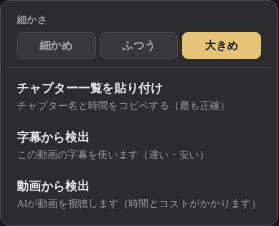
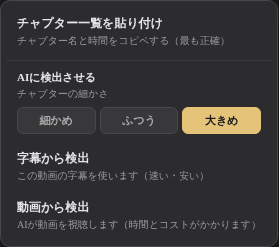
ブックマークのコメントを全文読めるようにする (v52.723)
コメントは一覧でも編集欄でも1行に押し込まれていて、全文を読む手段が無かった。
AI要約から作ったチャプターは説明が長いので、ほぼ必ず途中で切れていた。

■ 一覧の行
white-space:nowrap + 省略記号（1行固定）をやめ、既定2行のクランプにした。
押すと全文が開き、もう一度押すと畳む。
ついでに、これまで素で埋めていたコメントをHTMLエスケープするようにした
（< や & を含む文章で表示が崩れうる状態だった）。

■ 編集欄
<input type="text">（構造的に1行しか出せない）を <textarea> に変更。
初期の高さは中身の量から決め、入力中は oninput で伸びる。手動リサイズも可。
保存側は .value を読むだけなので変更不要（input/textarea どちらでも動く）。

■ 検証
実物のCSSと _vpNoteRows を使ってブラウザで実描画し、
畳んだ状態では内容より低い（＝省略されている）こと、押すと全文の高さになること、
再度押すと畳むこと、編集欄が全文を切らずに表示し中身も欠けていないこと、
を高さの実測で確認した。

Claude-Session: https://claude.ai/code/session_01WVH8Le74EeJ8zMGr3BxDTT

diff --git a/js/vpanel.js b/js/vpanel.js
@@ -880,8 +880,9 @@ function _bookmarkListHTML(id) {
       <div style="padding:8px 0 2px">
         <input id="vp-bm-lbl-${id}-${i}" type="text" value="${(bm.label||'').replace(/"/g,'&quot;')}" placeholder="ブックマーク名（空欄でも可）"
           style="width:100%;font-size:11px;padding:4px 8px;border:1.5px solid var(--accent);border-radius:6px;background:var(--surface);color:var(--text);font-family:inherit;outline:none;min-width:0;box-sizing:border-box;margin-bottom:5px;">
-        <input id="vp-bm-note-${id}-${i}" type="text" value="${(bm.note||'').replace(/"/g,'&quot;')}" placeholder="コメント（空欄でも可）"
-          style="width:100%;font-size:11px;padding:4px 8px;border:1.5px solid var(--border);border-radius:6px;background:var(--surface);color:var(--text);font-family:inherit;outline:none;min-width:0;box-sizing:border-box;margin-bottom:8px;">
+        <textarea id="vp-bm-note-${id}-${i}" rows="${_vpNoteRows(bm.note)}" placeholder="コメント（空欄でも可）"
+          oninput="this.style.height='auto';this.style.height=this.scrollHeight+'px'"
+          style="width:100%;font-size:11px;padding:4px 8px;border:1.5px solid var(--border);border-radius:6px;background:var(--surface);color:var(--text);font-family:inherit;outline:none;min-width:0;box-sizing:border-box;margin-bottom:8px;line-height:1.5;resize:vertical;">${_vpEsc(bm.note || '')}</textarea>
 
         <!-- タブ式エディタ -->
         <div style="border:0.5px solid var(--border);border-radius:8px;overflow:hidden;margin-bottom:6px;background:var(--surface);">
@@ -938,10 +939,25 @@ function _bookmarkListHTML(id) {
         <span style="flex:1;font-size:11px;color:var(--text);overflow:hidden;text-overflow:ellipsis;white-space:nowrap;cursor:pointer" onclick="vpBmTimeClick('${id}',${i},${bm.time}${hasEnd ? ',' + bm.endTime : ''})">${bm.label || '（ラベルなし）'}</span>
         <button onclick="${isExpanded ? `vpBmSave('${id}',${i})` : `vpBmToggleEdit('${id}',${i})`}" style="padding:2px 7px;border-radius:5px;border:1px solid ${isExpanded ? 'var(--accent)' : 'var(--border)'};background:${isExpanded ? 'var(--accent)' : 'transparent'};color:${isExpanded ? '#fff' : 'var(--text3)'};font-size:9px;font-weight:${isExpanded ? '600' : 'normal'};cursor:pointer;font-family:inherit">${isExpanded ? '✔ 保存' : '編集'}</button>
       </div>
-      ${bm.note && !isExpanded ? `<div style="font-size:10px;color:var(--text3);margin-top:2px;font-style:italic;overflow:hidden;text-overflow:ellipsis;white-space:nowrap">💬 ${bm.note}</div>` : ''}
+      ${bm.note && !isExpanded ? `<div class="vp-bm-note" title="押すと全文" onclick="event.stopPropagation();this.classList.toggle('open')">💬 ${_vpEsc(bm.note)}</div>` : ''}
       ${editorHTML}
     </div>`;
   }).join('');
+}
+
+// HTMLに埋めるときのエスケープ。ブックマークのコメントはユーザーの文章なので
+// < や & がそのまま入りうる（従来は素で埋めていて表示が崩れる可能性があった）。
+function _vpEsc(s) {
+  return String(s == null ? '' : s).replace(/[&<>"]/g, c => ({ '&':'&amp;','<':'&lt;','>':'&gt;','"':'&quot;' }[c]));
+}
+
+// コメント欄の初期の高さ。長い文章が1行に押し込まれて読めなかったので、
+// 中身の量からだいたいの行数を決める（入力中は oninput で伸びる）。
+function _vpNoteRows(note) {
+  const s = String(note || '');
+  if (!s) return 2;
+  const lines = s.split('\n').length + Math.floor(s.length / 30);
+  return Math.min(8, Math.max(2, lines));
 }
 
 function _adjBtnStyle(bg, color) {
@@ -1810,6 +1826,11 @@ function _ensureBottomSheet() {
 #vp-bs-list .bs-item{display:flex;gap:8px;align-items:center;padding:8px 14px;cursor:pointer;border-top:1px solid var(--border2);transition:background .12s}
 #vp-bs-list .bs-item:hover{background:var(--surface2)}
 #vp-bs-list .bs-item.now{background:var(--gold-soft);border-left:3px solid var(--accent)}
+/* ブックマークのコメント。1行で切り捨てていて全文を読む手段が無かった。
+   既定は2行までにして、押したら全文を出す（もう一度押すと畳む）。 */
+.vp-bm-note{font-size:10px;color:var(--text3);margin-top:2px;font-style:italic;line-height:1.5;
+  cursor:pointer;overflow:hidden;display:-webkit-box;-webkit-box-orient:vertical;-webkit-line-clamp:2;}
+.vp-bm-note.open{-webkit-line-clamp:unset;display:block;}
 #vp-bs-list .bs-thumb{width:56px;height:32px;border-radius:4px;overflow:hidden;flex-shrink:0;background:var(--surface3)}
 #vp-bs-list .bs-thumb img{width:100%;height:100%;object-fit:cover;display:block}
 #vp-bs-list .bs-info{flex:1;min-width:0}

diff --git a/index.html b/index.html
@@ -15,7 +15,7 @@
 <link rel="icon" href="icons/favicon.svg" type="image/svg+xml">
 <link rel="icon" href="favicon.ico" sizes="48x48">
 <link rel="icon" href="icons/favicon-32.png" type="image/png" sizes="32x32">
-<title>WAZA KIMURA v52.722</title>
+<title>WAZA KIMURA v52.723</title>
 <script>
 // ── パフォーマンス計測（?perf=1 のときだけ表示） ──
 (function(){
